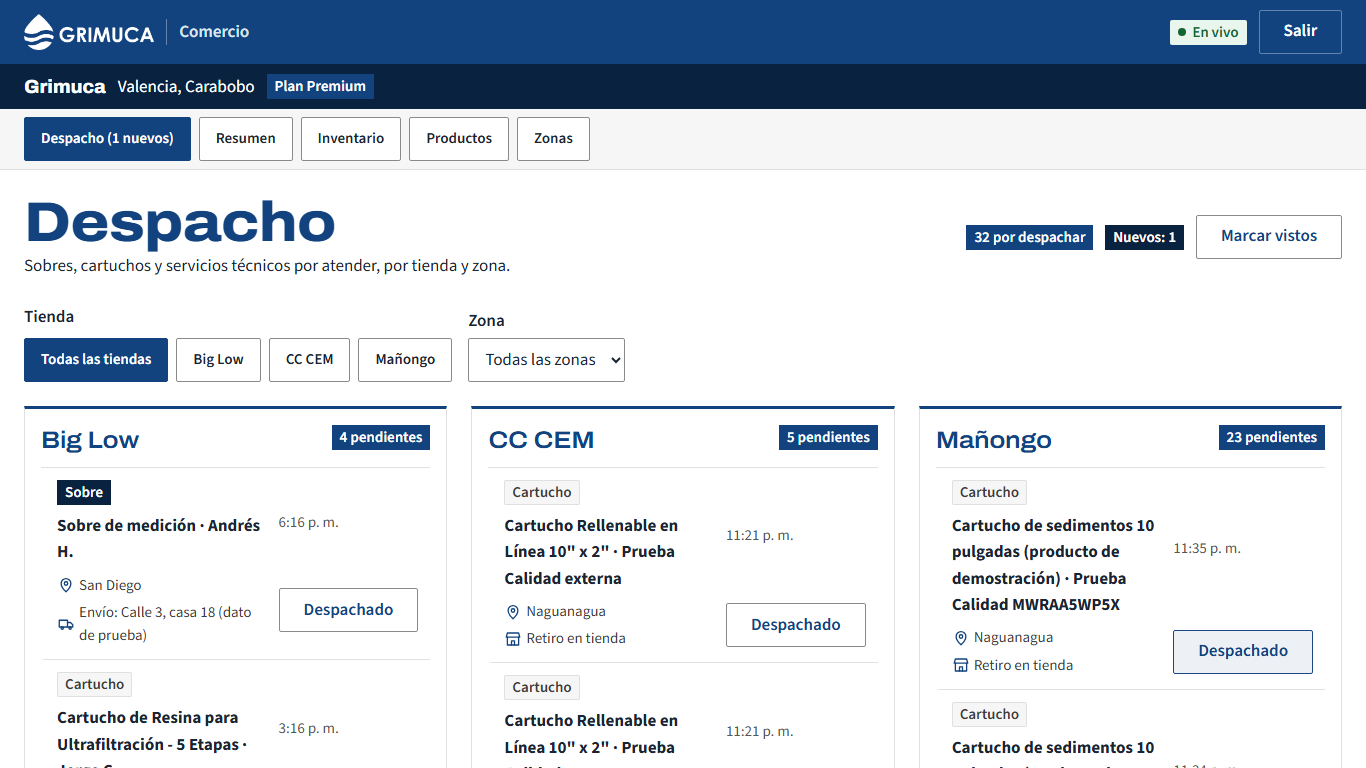
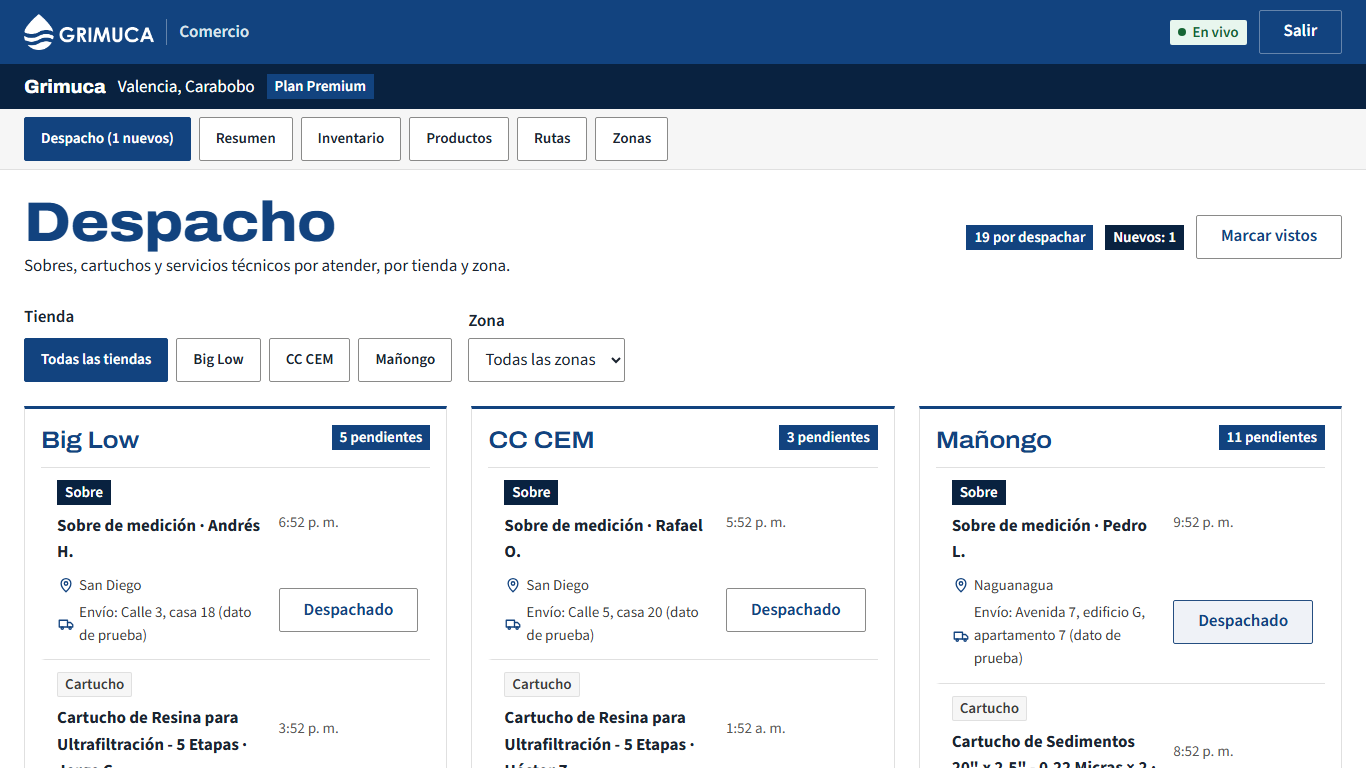
Botones de 44 px en el catálogo y el aviso de recambio, README con los cuatro módulos, guía de calibración de la tira y bloqueos al día

diff --git a/app/src/features/resultado/PaginaResultado.tsx b/app/src/features/resultado/PaginaResultado.tsx
@@ -278,16 +278,16 @@ export function AvisoRecambio({
     <Aviso titulo="Tu cartucho" tono={aviso.atencion ? 'atencion' : 'info'}>
       {aviso.texto}{' '}
       {destino.startsWith('#') ? (
-        <a className="g-enlace" href={destino}>
+        <a className="g-enlace g-enlace--tactil" href={destino}>
           {etiqueta}
         </a>
       ) : (
-        <Link className="g-enlace" to={destino}>
+        <Link className="g-enlace g-enlace--tactil" to={destino}>
           {etiqueta}
         </Link>
       )}{' '}
       ·{' '}
-      <Link className="g-enlace" to="/tutoriales">
+      <Link className="g-enlace g-enlace--tactil" to="/tutoriales">
         Mira cómo cambiarlo
       </Link>
     </Aviso>

diff --git a/app/src/features/catalogo/PaginaCatalogo.tsx b/app/src/features/catalogo/PaginaCatalogo.tsx
@@ -234,7 +234,7 @@ function Recomendados({ medicion, recomendados }: { medicion: Medicion | null; r
     return (
       <Aviso tono="info">
         Mide tu agua y te decimos cuáles van con tu casa.{' '}
-        <Link className="g-enlace" to="/medir">
+        <Link className="g-enlace g-enlace--tactil" to="/medir">
           Medir mi agua
         </Link>
       </Aviso>

diff --git a/app/src/components/grimuca/grimuca.css b/app/src/components/grimuca/grimuca.css
@@ -84,6 +84,12 @@ body {
   text-decoration: underline;
   text-underline-offset: 3px;
 }
+/* Enlace dentro de un texto que también es un objetivo táctil de 44 px. */
+.g-enlace--tactil {
+  display: inline-flex;
+  align-items: center;
+  min-height: 44px;
+}
 .g-apagado {
   color: var(--apagado);
   font-size: var(--t-1);

diff --git a/README.md b/README.md
@@ -2,12 +2,21 @@
 
 **Saber qué tomas empieza en casa.**
 
-Grimuca Agua le permite a una familia medir el agua de su casa con una tira reactiva y una foto. La aplicación lee la tira, explica cada indicador con un semáforo y recomienda el filtro o el cartucho que corresponde a ese hogar, diciendo por qué. El pedido sale de la tienda Grimuca más cercana y aparece en vivo en el panel del operador, junto con el inventario que hace falta y un mapa de la calidad del agua por urbanización.
+Grimuca Agua es una plataforma para ferreterías que Grimuca opera. Una familia mide el agua de su casa con una tira reactiva y una foto; la aplicación lee la tira, explica cada indicador con un semáforo y recomienda el filtro o el cartucho que corresponde a ese hogar, diciendo por qué. Ese hogar queda asignado a la ferretería de su zona, que recibe el pedido en vivo, ve su inventario contra la demanda prevista, sus rutas de despacho agrupadas por urbanización y las visitas de su técnico. La medición es la puerta de entrada; el valor grande está del lado del comercio.
 
 Proyecto del Hackatón ValenValley 2026 (Valencia, Venezuela), track **Logística**.
 
 - **Demo:** https://agua.oydo.app
-- **Panel del operador:** https://agua.oydo.app/operador (pide un PIN)
+- **Los cuatro módulos:** https://agua.oydo.app/modulos (los paneles de comercio, técnico y red piden un PIN, que no está en este repositorio)
+
+## Los cuatro módulos
+
+| Módulo | Dirección | Quién lo usa | Qué hace |
+|---|---|---|---|
+| Cliente | `/` | La familia | Pide o escanea el sobre, mide, ve su resultado y por qué se le recomienda cada producto, pide con retiro o envío, sigue tutoriales o pide un técnico |
+| Comercio | `/comercio` | La ferretería | Despacho en vivo, resumen, inventario contra demanda, productos propios, rutas de despacho y mapa de la calidad del agua por urbanización. Cada comercio ve solo lo suyo |
+| Técnico | `/tecnico` | El técnico de la ferretería | Servicios asignados en el orden de la ruta, "Ya fui" y foto de cómo quedó, que queda como reporte para el comercio |
+| Red | `/red` | Grimuca, como operador de la red | Comercios por estado, plan y periodo gratis, cifras de toda la red y alta de un comercio nuevo |
 
 ## El problema
 
@@ -23,12 +32,13 @@ En Valencia muchas familias dependen del botellón o de filtros que nadie sabe c
 
 ### Por qué es logística
 
-Las tres tiendas de Grimuca (Mañongo, Big Low y CC CEM) funcionan como almacenes de despacho. El operador ve:
+Hoy la ferretería compra, guarda y despacha repuestos sin saber cuándo le toca el cambio a cada cartucho. Con la medición y la fecha del último cambio, cada recambio tiene fecha y referencia conocidas con semanas de anticipación. Grimuca es el comercio de Carabobo, con tres tiendas (Mañongo, Big Low y CC CEM) que funcionan como almacenes de despacho; en otros estados entran ferreterías aliadas. Cada comercio ve:
 
 - **Despacho en vivo:** sobres por enviar, cartuchos y servicios técnicos, por tienda y zona. El pedido hecho en el teléfono aparece sin recargar la página.
 - **Resumen por tienda:** hogares, pedidos pendientes y recambios previstos a 7 y 30 días.
 - **Inventario contra demanda:** existencias frente a la demanda de los próximos 30 días, con los faltantes en rojo.
-- **Mapa por urbanización:** hexágonos con el estado del agua y con las zonas donde hay o no hay clientes; alerta cuando tres o más hogares de una urbanización miden en rojo en una semana.
+- **Rutas de despacho:** las entregas con envío y las visitas técnicas pendientes se agrupan por urbanización y se ordenan en una ruta por tienda sobre un mapa real, con la distancia de la ruta contra la de los viajes sueltos. Con los datos de demostración: 15 entregas en 3 rutas, 51,9 km contra 110,9 km.
+- **Mapa por urbanización:** el estado del agua y las zonas donde hay o no hay clientes, sobre un mapa real o un tablero de hexágonos; alerta cuando tres o más hogares de una urbanización miden en rojo en una semana.
 
 Se reemplaza el reparto semanal de botellones por envíos pequeños de cartuchos, solo cuando la medición o el calendario de recambio lo piden.
 
@@ -45,6 +55,7 @@ La medición con tira es orientativa. La aplicación nunca afirma que el agua se
 | Base de datos | PostgreSQL, con migraciones SQL numeradas |
 | Tiempo real | Eventos enviados por el servidor (SSE) alimentados por `LISTEN/NOTIFY` de PostgreSQL, con sondeo de respaldo |
 | Lectura de fotos | Servicio de visión llamado solo desde el servidor; devuelve "no legible" en lugar de adivinar |
+| Mapa | Leaflet con teselas de OpenStreetMap; si no hay conexión, el mapa sigue con fondo liso y las rutas se dibujan igual |
 | Despliegue | Contenedores con Docker Compose y un guion de despliegue por SSH |
 | Pruebas | Vitest (unidad y componentes) y Playwright (recorrido de la demo en teléfono y escritorio) |
 
@@ -54,14 +65,14 @@ La tira en uso se define como una lista de parámetros en [`api/src/medicion/con
 
 ```
 app/                  front
-  src/features/       alta, medicion, resultado, pedido, catalogo, filtro, tutoriales, operador
+  src/features/       alta, medicion, resultado, pedido, catalogo, filtro, tutoriales (cliente); operador (comercio); tecnico; red
   src/components/grimuca/   componentes del sistema de diseño
   src/lib/            cliente de la API, sesión y tipos
 api/                  API
   src/rutas/          rutas HTTP
   src/medicion/       tira, umbrales, lectura de la foto y evaluación del agua
   src/filtro/         identificación del filtro del hogar y cartuchos compatibles
-  src/logistica/      demanda, inventario, alertas y mapa por urbanización
+  src/logistica/      demanda, inventario, alertas, mapa por urbanización y rutas de despacho
 db/                   migraciones, catálogo y datos de demostración
 pruebas/e2e/          recorrido de la demo con Playwright
 infra/                contenedores y guion de despliegue
@@ -76,7 +87,7 @@ Requisitos: Node 22 o superior y PostgreSQL 16 (o Docker).
 
 ```bash
 npm install
-cp .env.example .env          # completa DATABASE_URL, PIN_OPERADOR y SECRETO_SESION
+cp .env.example .env          # completa DATABASE_URL, SECRETO_SESION y los PIN de cada rol
 npm run migrar -w api -- --semilla   # crea las tablas y carga el catálogo y los datos de demostración
 npm run build                 # compila el front
 npm run start -w api          # sirve la API y el front en http://localhost:3070

diff --git a/docs/calibracion/guia-calibracion.md b/docs/calibracion/guia-calibracion.md
@@ -1,0 +1,85 @@
+# Calibración con la tira real (domingo, 8:30 a.m.)
+
+Objetivo: que la app lea bien la tira que Tulio trae de Valencia y que el semáforo use sus valores. Tiempo estimado: 45 minutos. Es la Compuerta 4.
+
+## Estado de partida (probado el 22 nov, 1:55 a.m.)
+
+- El lector funciona en el sitio publicado. Con la foto de ejemplo [`tira-ejemplo.jpg`](tira-ejemplo.jpg) (tira dibujada junto a una tabla de 8 casillas con valores conocidos) leyó **8 de 8 casillas bien en dos intentos, en 8 segundos cada uno**: alcalinidad 80, dureza 250, cobre 0, nitrato 50, cloro libre 0,5, plomo 0, pH 7,2, nitrito 0. El semáforo dio rojo por el nitrato.
+- Esa foto es ideal: colores limpios y luz pareja. Una foto real de teléfono va a ser más difícil. Por eso existe la carga manual.
+- La tira configurada hoy es la de referencia de 8 casillas (`tiraW8` en `api/src/medicion/config/tira.ts`).
+
+## 1. Con la tira en la mano (10 min)
+
+Anota del empaque y de la tabla de colores, casilla por casilla y en el orden de la tira:
+
+| Orden en la tira | Parámetro | Unidad | Valores impresos en la tabla |
+|---|---|---|---|
+| 1 | | | |
+| 2 | | | |
+| … | | | |
+
+Revisa en especial:
+- **Nitrato:** si la tabla dice "NO3" o "NO3-N" (como nitrógeno). Si es NO3-N, el valor 10 equivale a unos 44 de NO3: avísale al equipo antes de cambiar nada, porque los cortes del semáforo están en NO3.
+- **Nitrito y la parte alta del pH:** estaban "por confirmar".
+- **Hierro u otras casillas** que la app no evalúa todavía.
+- **Tiempo de lectura** que pide el empaque (la app dice de 30 a 60 segundos).
+
+Toma una foto clara de la tabla de colores y guárdala en `insumos-tulio/`.
+
+## 2. Cambiar la tira en la app (10 min)
+
+Edita **solo** la constante `tira` al final de `api/src/medicion/config/tira.ts`:
+
+```ts
+// Ejemplo: la tira de Valencia trae 6 casillas y el pH con otros valores.
+export const tira: ParametroTira[] = [
+  conNiveles(parametros.ph, [6.0, 6.5, 7.0, 7.5, 8.0, 8.5]),
+  parametros.dureza,
+  parametros.cloro_libre,
+  conNiveles(parametros.nitrato, [0, 10, 25, 50, 100]),
+  parametros.nitrito,
+  parametros.alcalinidad,
+];
+```
+
+- Para quitar una casilla, borra su línea.
+- Para cambiar sus valores, usa `conNiveles(parametros.<clave>, [valores de la tabla])`.
+- Claves válidas: `alcalinidad`, `dureza`, `cobre`, `nitrato`, `cloro_libre`, `plomo`, `ph`, `nitrito`, `hierro`.
+- Ordénalas como vienen en la tira, de arriba hacia abajo: ese orden se le da al lector.
+- **No toques** `umbrales.ts`: los cortes del semáforo son por valor y no dependen de la tira.
+
+Después:
+
+```bash
+npm run test -w api      # deben seguir en verde
+npm run revisar          # sin errores
+```
+
+Haz commit y despliega con `infra/desplegar.sh` (ver `infra/LEEME.md`).
+
+## 3. Probar con fotos reales (20 min)
+
+Para cada una de las 3 muestras de agua que trae Tulio:
+
+1. Moja la tira como dice el empaque y espera el tiempo indicado.
+2. **Lee tú la tira a ojo** contra la tabla y anota los valores.
+3. En el teléfono, en https://agua.oydo.app, entra por "Ya tengo mi sobre", llena el perfil y en "Medir" toma la foto **con la tira al lado de la tabla de colores**, cerca de una ventana, sin flash y sin sombras.
+4. Compara lo que leyó la app con tu lectura y anótalo:
+
+| Muestra | Casilla | A ojo | La app | ¿Coincide? |
+|---|---|---|---|---|
+| | | | | |
+
+Criterio para dar por buena la Compuerta 4: en al menos 2 de las 3 muestras, la app lee bien o deja en "sin lectura" (nunca un valor equivocado que cambie el color del semáforo) al menos 6 de las casillas.
+
+## 4. Si lee mal
+
+- **Dice "no legible" muy seguido:** mejora la foto (luz natural, tira y tabla en la misma foto, sin reflejos). Si sigue, la demo se hace con la **carga manual**, que es el respaldo previsto.
+- **Confunde dos valores vecinos de la misma casilla:** es normal en tiras caseras. Si cambia el color del semáforo, anótalo para el pitch como límite conocido.
+- **Lee una casilla que la tira no tiene:** revisa que esa casilla no esté en `tira`.
+- No cambies el modelo de visión ni el texto de instrucciones del lector el domingo sin probarlo antes con la foto de ejemplo.
+
+## 5. Para la demo
+
+- Deja lista una foto buena de la tira real en el teléfono que se use en la demo, por si la luz del lugar es mala.
+- Si la foto falla en vivo: "Cargar los colores a mano" y seguir. El recorrido es el mismo.

diff --git a/docs/decisiones/bloqueos.md b/docs/decisiones/bloqueos.md
@@ -8,3 +8,7 @@ Cada entrada: qué falta, qué se puso en su lugar y cómo se completa.
 | sáb 21 nov, 8:30 p.m. | Catálogo real de cartuchos (lo entrega Tulio) | `db/semilla_cartuchos.sql` con productos marcados como ejemplo | Reemplazar la semilla cuando llegue el catálogo |
 | sáb 21 nov, 8:30 p.m. | Tira real y foto de su tabla de colores (domingo temprano) | `config/tira.ts` con la referencia de 8 parámetros y carga manual | Calibración del domingo 8:30 a.m. |
 | sáb 21 nov, 8:30 p.m. | Costos de la prueba de bacterias, envío, importación y empaque | Supuestos marcados en `docs/negocio/` | Tulio envía los costos y Business recalcula |
+| dom 22 nov, 1:58 a.m. | Clave de voz (`ELEVENLABS_API_KEY`): sigue sin existir en el servidor | La voz queda fuera de la demo | Si Leonardo agrega la clave a `/opt/agua/agua.env` antes de las 12:00 m., se puede sumar como lectura en voz alta del resultado |
+| dom 22 nov, 1:58 a.m. | Tira real y su tabla de colores | Lector probado con una foto de ejemplo (8 de 8 casillas bien) y guía en `docs/calibracion/guia-calibracion.md` | Calibración del domingo 8:30 a.m. con Tulio |
+| dom 22 nov, 1:58 a.m. | Costo del sobre puesto en Venezuela ($4,00 o $2,94) | El modelo muestra los dos escenarios | Decide Leonardo |
+| dom 22 nov, 1:58 a.m. | Ubicación exacta de las tres tiendas en el mapa | Coordenadas aproximadas de OpenStreetMap, marcadas así | Confirma Leonardo o Tulio |

diff --git a/docs/calidad/plan.md b/docs/calidad/plan.md
@@ -18,7 +18,7 @@ npm run e2e -- --list                  # lista las pruebas sin correrlas
 **Comando vigente (pasada 2, Git Bash en Windows, sin Node en el PATH):**
 
 ```bash
-export PATH="/c/Users/lede4/Valenhack/herramientas/node:$PATH"
+export PATH="<carpeta de Node>:$PATH"   # solo si Node no está en el PATH
 set -a; . ./.env.pruebas; set +a          # carga los PIN sin imprimirlos
 # Siempre por archivo, con salida de línea y dos procesos (una corrida de todo junto se colgó):
 npx playwright test -c pruebas/playwright.config.ts --reporter=line --workers=2 01-salud
